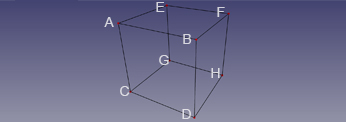
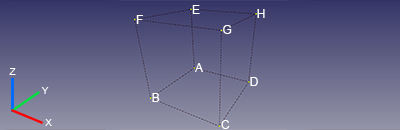
Fixes FlowTool point order and changes the reference image

diff --git a/DesignSPHysics.py b/DesignSPHysics.py
@@ -2870,7 +2870,7 @@ def on_flowtool():
         box_edit_name_layout.addWidget(box_edit_name_input)
 
         box_edit_description = QtGui.QLabel(__(
-            "Using multiple boxes with the same\nwill produce only one volume to measure.\nUse that to create prisms and complex forms."))
+            "Using multiple boxes with the same name will produce only one volume to measure.\nUse that to create prisms and complex forms. All points are specified in meters."))
         box_edit_description.setAlignment(QtCore.Qt.AlignCenter)
 
         # Reference image
